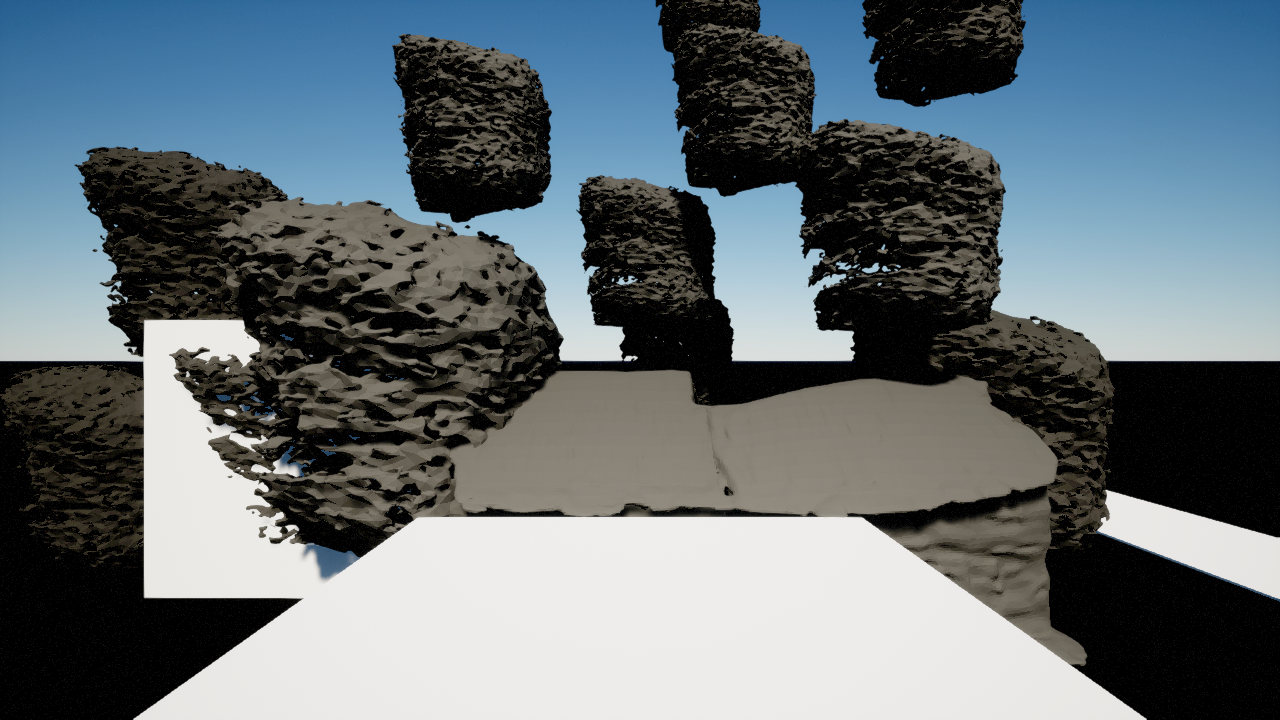
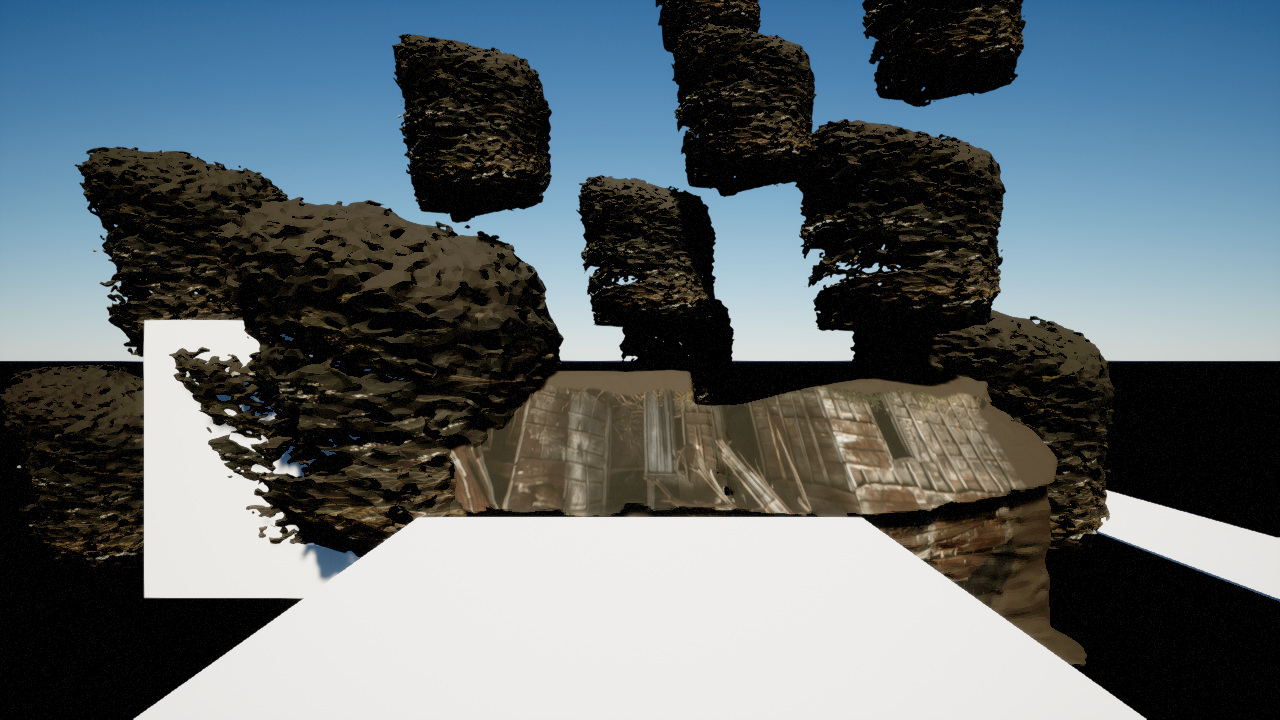
Texture generated meshes by projecting the crop they came from
Mini Turbo returns geometry only, so every generated asset rendered as grey.
The pixels it was conditioned on are still on disk beside it and the mesh is
aligned to that view by construction, so the crop projects straight back on.

Projection is along the mesh's own -Z, mapping its front-facing bounding box to
the crop, which keeps UVs in *object* space. That is the load-bearing choice: a
scatter region reuses one mesh across every instance it placed, and a
world-space projection would need one baked copy per instance -- twelve imports
and 150 MB for one hedge.

Runs after decimation, since the decimator round-trips through Blender and
would discard UVs applied before it.

The matte is flattened against the crop's own mean colour rather than white.
White leaves a bright halo everywhere the projection spills past the subject,
which reads as a rendering fault rather than a texturing one.

What this is: the front of an object gets its real appearance -- the barn's
rusted roof and weathered timber -- and the sides stretch along the projection
axis. Inherent to a single view, recorded in the receipt as such, and precisely
what offaxis_stability exists to catch. Multi-view is the next step.

Textures import with sRGB enabled; checked rather than assumed, since the
reconstruction path had to correct for the opposite.

diff --git a/workers/project_crop_texture.py b/workers/project_crop_texture.py
@@ -1,0 +1,116 @@
+"""Give a generated mesh the appearance of the crop it was generated from.
+
+Mini Turbo returns geometry only, so every generated asset renders as untextured
+grey. The pixels it was conditioned on are still on disk next to it, and the
+mesh is aligned to that view by construction -- an image-to-3D model produces
+its subject facing the conditioning camera -- so the crop can be projected
+straight back onto the mesh.
+
+Projection is along the mesh's own -Z (its front), mapping the front-facing
+bounding box to the crop. That keeps UVs in *object* space, which matters
+because a scatter region reuses one mesh across every instance it placed: a
+world-space projection would need one baked copy per instance.
+
+What this is and is not: the front of the object gets its real appearance, and
+the sides stretch along the projection axis. That is inherent to texturing from
+a single view and is exactly the artefact `offaxis_stability` exists to catch.
+It is not a claim that the back of the barn was observed.
+
+    py -3.12 workers/project_crop_texture.py --glb in.glb --crop crop.png \
+        --output textured.glb
+"""
+
+from __future__ import annotations
+
+import argparse
+import json
+from pathlib import Path
+
+# Fraction of the bounding box to pad the projection by, so vertices exactly on
+# the silhouette do not land on the crop's very edge pixel.
+EDGE_PAD = 0.01
+
+
+def main(argv: list[str] | None = None) -> int:
+    parser = argparse.ArgumentParser(description=__doc__)
+    parser.add_argument("--glb", required=True)
+    parser.add_argument("--crop", required=True)
+    parser.add_argument("--output", required=True)
+    parser.add_argument("--receipt", default="")
+    args = parser.parse_args(argv)
+
+    import numpy as np
+    import trimesh
+    from PIL import Image
+
+    source = Path(args.glb).resolve()
+    crop_path = Path(args.crop).resolve()
+    output = Path(args.output).resolve()
+    output.parent.mkdir(parents=True, exist_ok=True)
+
+    scene = trimesh.load(str(source), process=False)
+    geometries = (list(scene.geometry.values())
+                  if hasattr(scene, "geometry") else [scene])
+    mesh = (trimesh.util.concatenate(geometries) if len(geometries) > 1
+            else geometries[0])
+
+    vertices = np.asarray(mesh.vertices, dtype=np.float64)
+    low, high = vertices.min(axis=0), vertices.max(axis=0)
+    span = np.maximum(high - low, 1e-9)
+    pad = span * EDGE_PAD
+    low, high = low - pad, high + pad
+    span = high - low
+
+    # Object-space front projection: mesh +X is the image's right and mesh +Y is
+    # its up, so u runs with X and v runs *against* Y -- glTF's v origin is the
+    # top of the texture, not the bottom.
+    u = (vertices[:, 0] - low[0]) / span[0]
+    v = 1.0 - (vertices[:, 1] - low[1]) / span[1]
+    uv = np.clip(np.stack([u, v], axis=-1), 0.0, 1.0)
+
+    # The crop is matted; flatten it onto its own average colour rather than
+    # onto white, or every silhouette edge is fringed with a bright halo where
+    # the projection spills past the subject.
+    crop = Image.open(crop_path).convert("RGBA")
+    pixels = np.asarray(crop, dtype=np.float64)
+    alpha = pixels[:, :, 3:4] / 255.0
+    covered = alpha[:, :, 0] > 0.5
+    fill = (pixels[covered][:, :3].mean(axis=0) if covered.any()
+            else np.array([128.0, 128.0, 128.0]))
+    flattened = pixels[:, :, :3] * alpha + fill[None, None, :] * (1.0 - alpha)
+    texture = Image.fromarray(flattened.astype(np.uint8), mode="RGB")
+
+    material = trimesh.visual.material.PBRMaterial(
+        baseColorTexture=texture,
+        metallicFactor=0.0,
+        roughnessFactor=0.9,
+    )
+    mesh.visual = trimesh.visual.TextureVisuals(uv=uv, material=material)
+    mesh.export(str(output))
+
+    receipt = {
+        "schema_version": "crop_projection_v1",
+        "classification": "PROVEN",
+        "glb": str(source),
+        "crop": str(crop_path),
+        "output": str(output),
+        "output_bytes": output.stat().st_size,
+        "projection": "object_space_front_minus_z",
+        "vertices": int(len(vertices)),
+        "triangles": int(len(mesh.faces)),
+        "texture_size": list(texture.size),
+        "mask_coverage": round(float(covered.mean()), 4),
+        "fill_rgb": [round(float(c), 1) for c in fill],
+        # Stated so nothing downstream reads a textured mesh as an observed one.
+        "observed_from": "single view; sides stretch along the projection axis",
+    }
+    receipt_path = (Path(args.receipt) if args.receipt
+                    else output.with_suffix(".projection.json"))
+    receipt_path.write_text(json.dumps(receipt, indent=2, sort_keys=True) + "\n",
+                            encoding="utf-8")
+    print(json.dumps(receipt, indent=2, sort_keys=True))
+    return 0
+
+
+if __name__ == "__main__":
+    raise SystemExit(main())

diff --git a/src/lowvram3d/asset_generation.py b/src/lowvram3d/asset_generation.py
@@ -48,6 +48,7 @@ REPO = Path(__file__).resolve().parents[2]
 WORKER = REPO / "workers" / "mini_turbo_generate.py"
 DECIMATOR = REPO / "workers" / "decimate_mesh.py"
 PREVIEWER = REPO / "workers" / "preview_generated_mesh.py"
+PROJECTOR = REPO / "workers" / "project_crop_texture.py"
 
 # Mini Turbo samples a 384^3 volume whatever the subject, so a single building
 # comes back at ~1.7 M triangles. That is grid resolution, not detail, and it
@@ -300,6 +301,26 @@ def _decimate(glb: Path, budget: int) -> tuple[Path, dict[str, Any]]:
                  "stderr_tail": (completed.stderr or "")[-400:]}
 
 
+def _project_texture(glb: Path, crop: Path) -> tuple[Path, dict[str, Any]]:
+    """Project the conditioning crop back onto the mesh it produced.
+
+    Not fatal on failure: an untextured mesh is still correct geometry, and
+    saying so beats losing the asset.
+    """
+    textured = glb.with_name(glb.stem.replace("_lod", "") + "_textured.glb")
+    receipt_path = textured.with_suffix(".projection.json")
+    completed = subprocess.run(
+        [sys.executable, str(PROJECTOR), "--glb", str(glb), "--crop", str(crop),
+         "--output", str(textured), "--receipt", str(receipt_path)],
+        capture_output=True, text=True)
+    if completed.returncode != 0 or not textured.is_file():
+        return glb, {"classification": "FAILED", "textured": False,
+                     "stderr_tail": (completed.stderr or "")[-400:]}
+    receipt = (json.loads(receipt_path.read_text(encoding="utf-8"))
+               if receipt_path.is_file() else {})
+    return textured, {**receipt, "textured": True}
+
+
 def _preview(glb: Path, destination: Path) -> dict[str, Any]:
     """Render the asset on its own so it can be judged apart from the scene.
 
@@ -453,12 +474,17 @@ def generate(placement: dict[str, Any], image: Path, output_dir: Path,
         # Trust the artefact, not the exit code: this project has repeatedly
         # found green receipts over missing or empty outputs.
         if glb.is_file() and glb.stat().st_size > 4096 and worker_result.get("success"):
-            usable, decimation = _decimate(glb, triangle_budget)
+            reduced, decimation = _decimate(glb, triangle_budget)
+            # Texture after decimating: the decimator round-trips through
+            # Blender and would discard UVs applied before it.
+            usable, projection = _project_texture(reduced, asset_dir / "crop.png")
             entry.update({
                 "status": "generated",
                 "glb": str(usable),
                 "raw_glb": str(glb),
+                "decimated_glb": str(reduced),
                 "decimation": decimation,
+                "texture_projection": projection,
                 "glb_bytes": usable.stat().st_size,
                 "glb_sha256": _sha256(usable),
                 "vertices": worker_result.get("raw_vertices"),

diff --git a/HANDOFF.md b/HANDOFF.md
@@ -27,9 +27,10 @@ PYTHONPATH=src python -m lowvram3d.image_to_scene_pipeline \
 
 Ends with `PIPELINE_CLASSIFICATION=SCENE_BUILT_WITH_GENERATED_ASSETS`.
 
-Chain: image → MoGe-2 depth → SegFormer regions **+ per-region masks** →
-unprojected placement → **crop → matte → Mini Turbo → decimate → import** →
-spawned in Unreal → rendered. Every stage writes a receipt.
+Chain: image → MoGe-2 depth → SegFormer regions **+ per-region masks + geometric
+clustering** → unprojected placement → **crop → matte → Mini Turbo → decimate →
+project the crop as texture → import** → spawned in Unreal → rendered. Every
+stage writes a receipt.
 
 **The classification distinguishes generated from primitive.** `SCENE_BUILT` used
 to be true of a field of cubes; there are now three outcomes
@@ -184,9 +185,24 @@ else had failed.
      vegetation to the terrain would hide it; separating trunks would fix it.
    - The crop for a scatter region is still a chunk of hedge, so the mesh is a
      blob. Accurate to the input, and not a tree.
-2. **Texture the generated meshes.** They render as untextured grey. The source
-   crop and its mask are already on disk per asset; this is the same projection
-   problem the photometric lane already solved once.
+2. **Better texturing than a single-view projection.** `workers/project_crop_texture.py`
+   projects each asset's conditioning crop back onto it, along the mesh's own
+   −Z, mapping the front-facing bounding box to the crop. The generator aligns
+   its output to the conditioning view by construction, so this lands. UVs stay
+   in *object* space deliberately: a scatter region reuses one mesh across every
+   instance, and a world-space projection would need one baked copy per
+   instance.
+
+   The front of an object gets its real appearance and the sides stretch along
+   the projection axis. That is inherent to one view and is what
+   `offaxis_stability` exists to catch — it is not a claim the back was seen.
+   Filling the matte against the crop's mean colour rather than white matters:
+   white leaves a bright halo wherever the projection spills past the subject.
+
+   Textures import with sRGB already enabled here (checked, not assumed —
+   the reconstruction path had to correct for the opposite).
+
+   Next would be multi-view: the back and sides are currently smeared.
 3. **The CUDA fault** in §4. Worth one experiment: generate the same asset twice
    in a row in one run and see whether the *second* attempt fails, which would
    separate "GPU state" from "this particular input".
